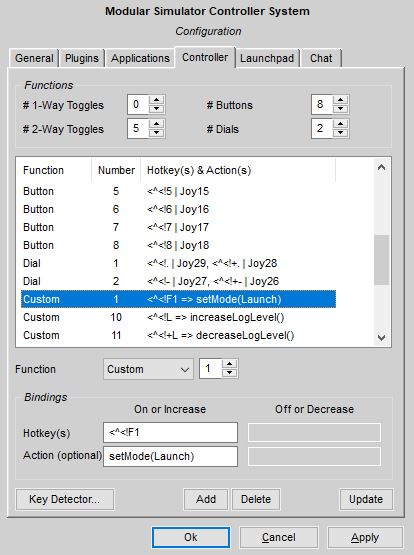
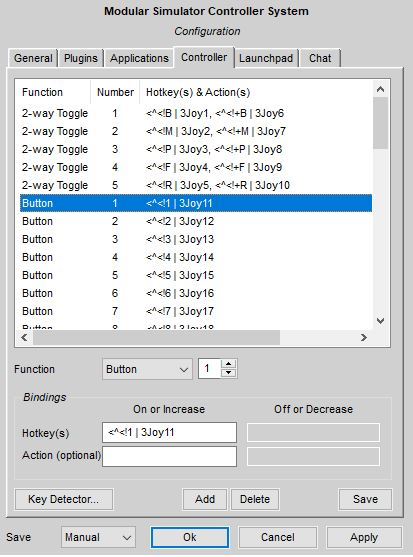
Alpha Build 2.4.0-alpha

diff --git a/Docs/Installation & Configuration.md b/Docs/Installation & Configuration.md
@@ -76,11 +76,11 @@ For developers: Sometimes you want magic stuff to happen, when an application is
 
 ### Tab *Controller*
 
-This tab represents the most important, the most versatile and also the most difficult to understand part of the configuration process. On this page, you describe your hardware controller, for example a Button Box, and all the functionality available on this controller.
+This tab represents the most important, the most versatile and also the most difficult to understand part of the configuration process. On this page, you describe your hardware controllers, for example one or more Button Boxes, and all the functionality available on this controller.
 
 ![](https://github.com/SeriousOldMan/Simulator-Controller/blob/main/Docs/Images/Configuration%20Tab%204.JPG)
 
-In the top section you define how many functional elements of each type are available on your hardware controller. Simulator Controller can handle as many 1-way and 2-way toggle switches, normal push buttons and 2-way rotary dials as you like. Beside that, a fith function type *Custom* is available to connect special controller elements or other external trigger (for example macro tools for voice recognition) to the Simulator Controller.
+Note: Beginning with Release 2.4, Simulator Controller supports multiple Button Boxes. For the moment, the functions defined on the *Controller tab* will span all Button Boxes. So, the first Button Box might define Button #1 to Button #8 and the second Button Box will define Button #9 onwards. Also, only one mode will be active for all Button Boxes at the same time. This might chnage in a future version.
 
 In the *Bindings* group, you define one or two hotkeys and corresponding actions, depending on whether you have defined a unary or binary function type. 2-way toggles and dials need two bindings for the "On" and "Off", respectivly the "Increase" and "Decrease" trigger. The binding of a function happens by defining [hotkeys](https://github.com/SeriousOldMan/Simulator-Controller/wiki/Installation-&-Configuration#hotkeys), which might trigger the given function. You can define more than one hotkey descriptor, delimited by the vertical bar "|", for each trigger in the controller tab. This might be useful, if you have several sources, which can trigger a given function. For example you might have a function, which can be triggered by pushing a button on the controller, but also from the keyboard, which might be emulated by another tool, for example a voice recognition software.
 

diff --git a/Docs/Updates.md b/Docs/Updates.md
@@ -52,6 +52,8 @@ The autoamated update procedure described above will add the plugin descriptor t
 Unfortunately, the format of some of the Settings files have changed again with this release and you have to recreate them:
   1. The format of the *Race Engineer Settings* file has changed again. Please start the *Race Engineer Settings* application, adjust all the settings and close the dialog with the "Ok" button.
   2. Hold the control button down, while starting "Simulator Startup" and adjust the Button Box position. This is necessary, since Simulator Controller now supports multiple Button Boxes.
+  
+Last, but not least, the former automatically activated "Shutdown" function in the "Launch" mode now is configured by an explicit plugin argument of the *System* plugin. You must update your [plugin configuration](https://github.com/SeriousOldMan/Simulator-Controller/wiki/Plugins-&-Modes#configuration), if you want the "Shutdown" function to still be available.
 
 ***
 

diff --git a/README.md b/README.md
@@ -26,7 +26,9 @@ Below you will find download links for the current development build and the two
 
 #### Latest development build
 
-None at the moment...
+[2.4.0-alpha](https://www.dropbox.com/s/03sjcyegxquleky/Simulator%20Controller%202.4.0-alpha.zip?dl=1) (First preview for the upcoming Release 2.4. Feature complete, quite stable and fully documented already. Update routines for the local configuration database are also fully implemented. Important new features: Support for multiple Button Boxes, New plugin for RaceRoom Racing Experience, Pedal Calibration changes are now possible even when on the race track - quite useful when the track gets wet, Jona now can recommend adjusted tyre pressures for falling or rising temperatures during long races)
+
+Important: Please be sure, to read the [update notes](https://github.com/SeriousOldMan/Simulator-Controller/wiki/Update-Notes#release-24) on Release 2.4, before using the release.
 
 #### Latest release builds
 
